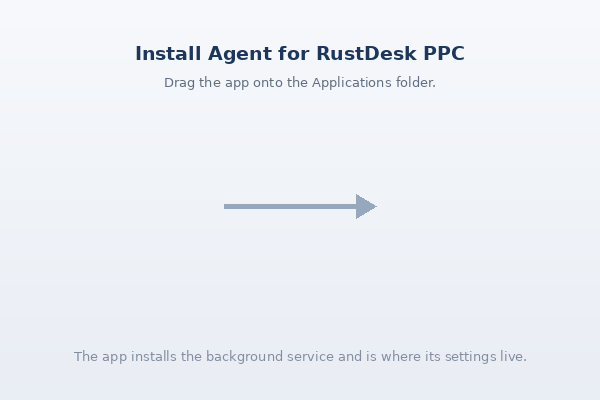
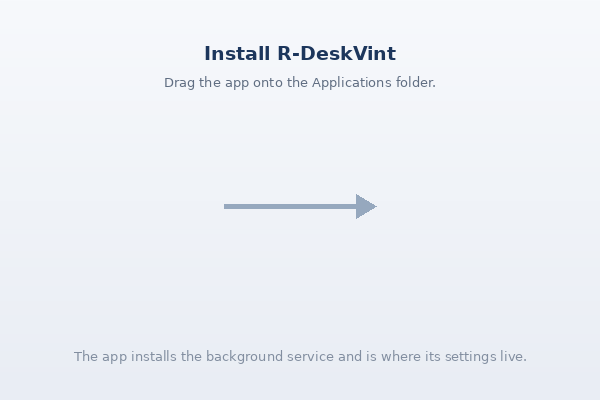
rebrand(ppc-agent): ship as R-DeskVint
Rebrand the PowerPC agent's user-facing product from "Agent for RustDesk PPC"
to R-DeskVint, keeping every internal identity so it stays a drop-in and
existing installs keep working: binary rustdesk-agent, LaunchAgent label
com.rustdesk.ppc-agent, CFBundleExecutable/Identifier, tarball name and the
install paths are all unchanged.

Changed (display only):
- app-ui.m: APP_NAME -> R-DeskVint (window, menu, About); About now names it an
  unofficial RustDesk fork.
- bundle.sh: .app bundle -> R-DeskVint.app, CFBundleName/DisplayName -> R-DeskVint.
- release.sh: DMG volume -> R-DeskVint, file -> R-DeskVint-PPC-<ver>.dmg.
- make-dmg-bg.py + dmg-background.png: title -> "Install R-DeskVint".
- make-dmg.sh: default volume name -> R-DeskVint.
- make-icns.py + app.icns: recolor the icon body from blue to rust (amber
  remote pointer and off-white monitor kept), matching the R-DeskWay theme.

Claude-Session: https://claude.ai/code/session_019UpTxpng4DhF1i3nMGjJkk

Changed region(s): [[0.21, 0.09, 0.78, 0.18]]

diff --git a/rustdesk-ppc-agent/deploy/app-ui.m b/rustdesk-ppc-agent/deploy/app-ui.m
@@ -1,5 +1,5 @@
 /*
- * "Agent for RustDesk PPC.app" -- a real window, built programmatically.
+ * "R-DeskVint.app" -- a real window, built programmatically.
  *
  * Compiled on the Mac by deploy/bundle.sh with Apple's gcc 4.0.1 (Xcode 3 on
  * 10.5). Everything that touches the system is a call into
@@ -28,7 +28,7 @@
  */
 #import <Cocoa/Cocoa.h>
 
-#define APP_NAME @"Agent for RustDesk PPC"
+#define APP_NAME @"R-DeskVint"
 
 /* Rows are laid out from the top down, which reads in the order the window is
  * used; Cocoa's origin is bottom-left, so this converts once rather than making
@@ -292,7 +292,7 @@
         @"Version %@   (%@)\n"
         @"Built %@\n"
         @"For PowerPC %@, Mac OS X 10.4 and 10.5\n\n"
-        @"A RustDesk agent - the controlled side - for PowerPC Macs, "
+        @"R-DeskVint, an unofficial RustDesk fork. The controlled side, for PowerPC Macs, "
         @"built with mrustc because RustDesk itself needs an async runtime this "
         @"hardware has no compiler for.\n\n"
         @"Source and issues:\n%@\n(branch ppc-agent)%@",

diff --git a/rustdesk-ppc-agent/deploy/make-icns.py b/rustdesk-ppc-agent/deploy/make-icns.py
@@ -52,7 +52,7 @@ def draw(size):
 
     # Rounded-square body with a vertical wash. Two flat colours banded down the
     # square read as a gradient at every size we emit and cost nothing.
-    top, bottom = (38, 92, 160), (22, 48, 92)
+    top, bottom = (198, 86, 26), (120, 48, 14)   # rust gradient (R-DeskVint)
     r = int(S * 0.22)
     d.rounded_rectangle([0, 0, S - 1, S - 1], radius=r, fill=top)
     for i in range(S // 2, S):
@@ -70,7 +70,7 @@ def draw(size):
     d.rounded_rectangle([sx0, sy0, sx1, sy1], radius=int(S * 0.035),
                         fill=(238, 244, 250, 255))
     d.rounded_rectangle([sx0 + S * 0.03, sy0 + S * 0.03, sx1 - S * 0.03, sy1 - S * 0.03],
-                        radius=int(S * 0.02), fill=(30, 64, 110, 255))
+                        radius=int(S * 0.02), fill=(74, 40, 22, 255))
     # Stand.
     d.polygon([(S * 0.44, sy1), (S * 0.56, sy1), (S * 0.60, S * 0.72), (S * 0.40, S * 0.72)],
               fill=(238, 244, 250, 255))

diff --git a/rustdesk-ppc-agent/deploy/make-dmg-bg.py b/rustdesk-ppc-agent/deploy/make-dmg-bg.py
@@ -39,7 +39,7 @@ def main():
     if os.path.exists(FONT_B):
         fb = ImageFont.truetype(FONT_B, 19)
         fr = ImageFont.truetype(FONT_R, 13)
-        title = "Install Agent for RustDesk PPC"
+        title = "Install R-DeskVint"
         sub = "Drag the app onto the Applications folder."
         for text, font, y, fill in ((title, fb, 42, (28, 54, 92)),
                                     (sub, fr, 74, (96, 110, 130))):
